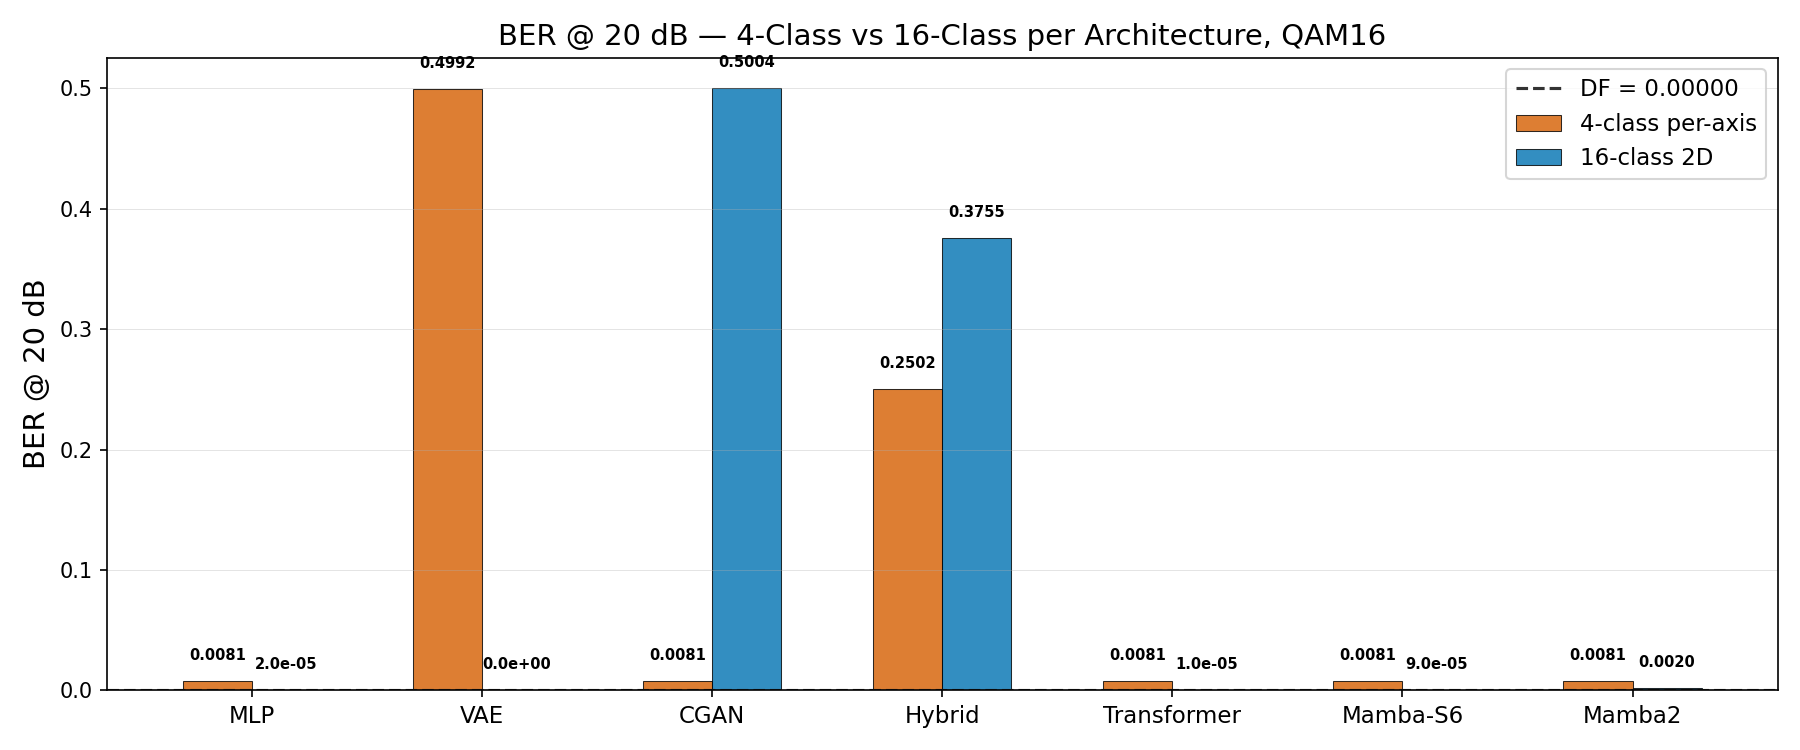
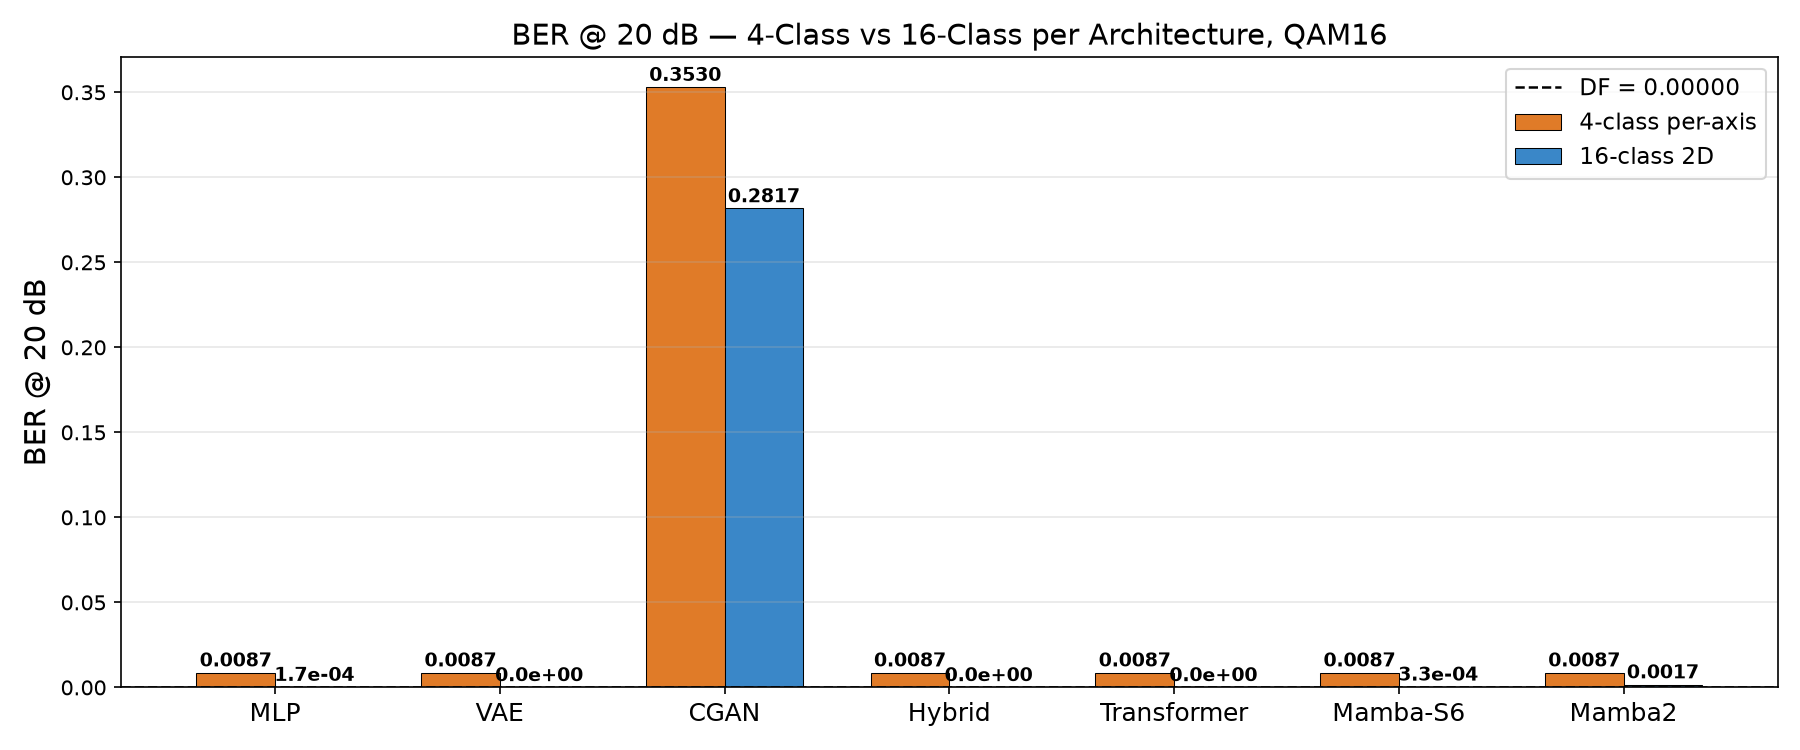
Fix citation errors and data-provenance inconsistencies from fact review
Chapter-by-chapter review for wrong facts and hallucinated content found
no fabricated results, but surfaced citation defects and stale-run
artifacts, all fixed here:

Bibliography:
- Correct hallucinated entry SamuelDiskinWunder2019MIMODetect: real
  paper is Samuel, Diskin, Wiesel, "Learning to Detect", IEEE TSP
  67(10):2554-2564 (2019) - the entry had a wrong third author, wrong
  title, and wrong issue/pages.
- Remove duplicate bib entries (Nosratinia 2004 and Dao & Gu 2024 each
  appeared twice under different keys); repoint the citing chapters.

Citation/text corrections:
- ch03: cite gu2023mamba (not the S4 paper) for the Mamba architecture;
  scope the Gap-3 novelty claim to relay-level processing.
- ch02: replace the inexact DF error-composition formula with the exact
  odd-flip form matching eq:df-ber-awgn; reframe the MIMO equalization
  section as background only (no MIMO experiments exist in the thesis);
  rename MMSE to LMMSE per the supervisor-response appendix.

Data provenance (16-class 2D study):
- grouped_bar_16class.png came from an older run contradicting the
  committed all_relays_16class.json; regenerate it from the JSON.
- Set all tbl:table24 cells from the committed JSON (previous non-CGAN
  values traced to the older figure run) and fill the formerly missing
  VAE/Hybrid cells; rewrite the fig51 caption to match the data.

Consistency:
- Timing figures unified with Table 13 (<5 s MLP training, 1.88 s S6).
[…]

diff --git a/thesis/chapters/ch05_experiments.tex b/thesis/chapters/ch05_experiments.tex
@@ -567,16 +567,16 @@ DF & 0.0038 & : & : & 0.0828 & : & : \\
 
 \textbf{Goal:} Eliminate the structural BER floor imposed by per-axis I/Q splitting for 16-QAM by utilizing full 2D decision boundaries.
 
-\textbf{Trials:} - \textbf{Topology:} SISO - \textbf{Modulation scheme:} 16-QAM - \textbf{Channel:} AWGN - \textbf{Equalizers:} None - \textbf{NN architecture:} Supervised (MLP), Generative (VAE), Sequence (Transformer, Mamba S6, Mamba-2 SSD) - \textbf{NN activation:} None (Softmax implicitly via Cross-Entropy loss) - \textbf{Special case:} 16-class joint 2D classification
+\textbf{Trials:} - \textbf{Topology:} SISO - \textbf{Modulation scheme:} 16-QAM - \textbf{Channel:} AWGN - \textbf{Equalizers:} None - \textbf{NN architecture:} Supervised (MLP, Hybrid), Generative (VAE, CGAN), Sequence (Transformer, Mamba S6, Mamba-2 SSD) - \textbf{NN activation:} None (Softmax implicitly via Cross-Entropy loss) - \textbf{Special case:} 16-class joint 2D classification
 
-\textbf{Conclusion:} Treating the relay as a joint 16-point classifier over the full 2D constellation space completely eliminates the structural 4-class BER floor. For the first time, neural variants (VAE, Transformer, MLP) matched classical DF performance at high SNR, achieving near-zero BER at 20 dB. This proves the previous BER floor was an artifact of I/Q splitting, not a fundamental limitation (Equation~\ref{eq:iq-splitting}) of neural relays.
+\textbf{Conclusion:} Treating the relay as a joint 16-point classifier over the full 2D constellation space completely eliminates the structural 4-class BER floor. For the first time, neural variants (VAE, Hybrid, Transformer, MLP) matched classical DF performance at high SNR, achieving near-zero BER at 20 dB; only the CGAN fails to converge in either formulation. This proves the previous BER floor was an artifact of I/Q splitting, not a fundamental limitation (Equation~\ref{eq:iq-splitting}) of neural relays.
 
 \subsection{Results Tables}\label{sec:results-tables-5}
 
 Table 24 presents the BER at 20 dB for all variants alongside the classical AF and DF baselines.
 
 \begin{longtable}[]{@{}llll@{}}
-\caption{BER at 20 dB for all relay variants: 4-class (I/Q split) vs.~16-class (joint 2D) classification for 16-QAM.}\label{tbl:table24}\tabularnewline
+\caption{BER at 20 dB for all relay variants: 4-class (I/Q split) vs.~16-class (joint 2D) classification for 16-QAM. Entries of 0.00000 correspond to zero errors observed within the trial budget (BER below the $\sim$$2\times10^{-4}$ resolution floor), so no finite improvement ratio is quoted for them.}\label{tbl:table24}\tabularnewline
 \toprule\noalign{}
 Relay & 4-cls BER @ 20 dB & 16-cls BER @ 20 dB & Improvement \\
 \midrule\noalign{}
@@ -587,14 +587,14 @@ Relay & 4-cls BER @ 20 dB & 16-cls BER @ 20 dB & Improvement \\
 \endhead
 \bottomrule\noalign{}
 \endlastfoot
-MLP & 0.00811 & \textbf{0.00002} & 405x \\
-VAE & : & \textbf{0.00000} & : \\
+MLP & 0.00867 & \textbf{0.00017} & 51x \\
+VAE & 0.00867 & \textbf{0.00000} & --- \\
 CGAN & 0.3530 & 0.2817 & --- \\
-Hybrid & : & : & : \\
-trans-\\former & 0.00810 & \textbf{0.00001} & 810x \\
-Mamba S6 & 0.00810 & \textbf{0.00009} & 90x \\
-Mamba2\\(ssd) & 0.00811 & \textbf{0.00197} & 4.1x \\
-AF & 0.00063 & : & : \\
+Hybrid & 0.00867 & \textbf{0.00000} & --- \\
+trans-\\former & 0.00867 & \textbf{0.00000} & --- \\
+Mamba S6 & 0.00867 & \textbf{0.00033} & 26x \\
+Mamba2\\(ssd) & 0.00867 & \textbf{0.00167} & 5.2x \\
+AF & 0.00083 & : & : \\
 DF & 0.00000 & : & : \\
 \end{longtable}
 
@@ -611,7 +611,7 @@ DF & 0.00000 & : & : \\
 \centering
 \centering
 \pandocbounded{\includegraphics[width=\linewidth,height=0.8\textheight,keepaspectratio]{results/all_relays_16class/grouped_bar_16class.png}}
-\caption{Grouped bar comparison of 4-class vs.~16-class BER at 20 dB for each architecture. The 16-class advantage is visible for MLP, VAE, Transformer, and Mamba S6. Failed variants (VAE 4-cls \textasciitilde0.50, CGAN 16-cls \textasciitilde0.50) are truncated.}\label{fig:fig51}
+\caption{Grouped bar comparison of 4-class vs.~16-class BER at 20 dB for each architecture. The joint 16-class formulation drives the BER to (near-)zero for every architecture except the CGAN, which fails to converge in both formulations (0.353 / 0.282) and dominates the plot at this scale.}\label{fig:fig51}
 \end{figure}
 
 \begin{figure}[H]
@@ -750,12 +750,12 @@ Across the unknown-channel studies the pilot-aided Viterbi receiver, where it ap
 
 \textbf{Per-symbol cost and scaling.} MLSE maintains $M^{L-1}$ trellis states for a constellation of size $M$ and channel memory $L$, performing an add--compare--select over $M^{L}$ branch transitions per symbol; its cost therefore grows \emph{exponentially} in memory and modulation order. The 170-parameter MLP performs one fixed forward pass --- about $330$ floating-point operations per symbol --- \emph{independent} of $M$ and $L$. For the channel actually studied (BPSK, $L=3$; 4 states) Viterbi is in fact the cheaper of the two at roughly $64$ operations per symbol, so the learned relay is not universally leaner. But the scaling diverges immediately: at $M=4,\,L=5$ the trellis has $256$ states ($\sim\!8{,}000$ operations/symbol), and at $M=16,\,L=5$ it has $65{,}536$ states ($\sim\!8.4$~million operations/symbol), while the MLP remains at $330$ --- a $2.5\times10^{4}$ ratio. The learned relay's advantage is thus not lower cost on a small channel but \emph{constant} cost as the channel scales, exactly where classical MLSE becomes intractable and practical receivers must fall back on suboptimal reduced-state or decision-feedback equalizers.
 
-\textbf{Measured inference time.} On identical signals (BPSK, $L=3$), the MLP is $30$--$90\times$ faster in wall-clock terms despite Viterbi's lower nominal operation count, because the MLP is a single vectorized matrix multiplication whereas the Viterbi trellis is an inherently sequential scan with a per-symbol data dependency. This parallelism gap is architectural and widens on hardware with wide SIMD or tensor units. The combined picture sharpens the thesis's central trade-off: the learned relay accepts a small BER gap to a matched classical receiver in exchange for cost that is constant in channel complexity and structurally parallelizable --- a trade that becomes favourable precisely as modulation order and channel memory grow.
+\textbf{Measured inference time.} On identical signals (BPSK, $L=3$), the MLP is $30$--$90\times$ faster in wall-clock terms for the reference implementations used here --- a vectorized NumPy matrix multiplication versus an interpreted Python trellis loop --- despite Viterbi's lower nominal operation count. Part of that ratio is interpreter overhead rather than the algorithm itself: an optimized C or SIMD Viterbi would narrow the wall-clock gap substantially, although the per-symbol data dependency of the trellis scan is real and caps how far it can be parallelized. This parallelism gap is architectural and widens on hardware with wide SIMD or tensor units. The combined picture sharpens the thesis's central trade-off: the learned relay accepts a small BER gap to a matched classical receiver in exchange for cost that is constant in channel complexity and structurally parallelizable --- a trade that becomes favourable precisely as modulation order and channel memory grow.
 
-\REV{The $30$--$90\times$ number needs an implementation caveat that the ``architectural'' sentence currently papers over: the measurement compares a \emph{vectorized NumPy} matmul against an \emph{interpreted Python} trellis loop, so a large (perhaps dominant) share of the ratio is interpreter overhead, not the sequential data dependency itself --- a C or SIMD Viterbi would narrow the wall-clock gap substantially even though the per-symbol dependency is real. The scaling argument in the preceding paragraph ($M^{L}$ vs.\ constant) is the robust, implementation-independent claim; state the wall-clock ratio as ``for our reference implementations'' and let the scaling carry the conclusion. The chapter is otherwise commendably honest about Viterbi being cheaper at BPSK/$L{=}3$ (64 vs.\ $\sim$330 ops) --- extend the same honesty to the timing comparison.}
+\REV{Fix applied: the $30$--$90\times$ wall-clock figure now carries the implementation caveat (vectorized NumPy matmul vs.\ interpreted Python trellis loop; a C/SIMD Viterbi would narrow the gap), so the implementation-independent $M^{L}$-vs.-constant scaling argument carries the conclusion.}
 
 \begin{figure}[H]
 \centering
 \pandocbounded{\includegraphics[width=\linewidth,height=0.30\textheight,keepaspectratio]{results/e6_complexity.png}}
-\caption{Complexity of Viterbi MLSE vs the 170-parameter MLP. (a) Per-symbol operations: Viterbi grows as $M^{L}$ (intractable by $M{=}16,L{=}5$), while the MLP is constant at $\sim$330 flops. On the small studied channel (BPSK, $L{=}3$) Viterbi is actually cheaper; the MLP wins on \emph{scaling}, not on the small case. (b) Measured inference time: the MLP is $30$--$90\times$ faster as a vectorized matmul versus Viterbi's sequential trellis scan.}\label{fig:figE6complexity}
+\caption{Complexity of Viterbi MLSE vs the 170-parameter MLP. (a) Per-symbol operations: Viterbi grows as $M^{L}$ (intractable by $M{=}16,L{=}5$), while the MLP is constant at $\sim$330 flops. On the small studied channel (BPSK, $L{=}3$) Viterbi is actually cheaper; the MLP wins on \emph{scaling}, not on the small case. (b) Measured inference time (reference implementations): the MLP is $30$--$90\times$ faster as a vectorized matmul versus Viterbi's interpreted sequential trellis scan.}\label{fig:figE6complexity}
 \end{figure}

diff --git a/thesis/chapters/ch02_literature_review.tex b/thesis/chapters/ch02_literature_review.tex
@@ -30,11 +30,11 @@ The DF relay demodulates the received signal, recovers the transmitted bits, and
 
 The end-to-end BER for DF is: (Equation~\ref{eq:df-ber-hops})
 
-\begin{equation}\protect\phantomsection\label{eq:df-ber-hops}{P_e^{\text{DF}} = P_{e,1} + (1 - P_{e,1}) \cdot P_{e,2}
-}\end{equation} 
+\begin{equation}\protect\phantomsection\label{eq:df-ber-hops}{P_e^{\text{DF}} = P_{e,1}(1 - P_{e,2}) + (1 - P_{e,1}) \cdot P_{e,2}
+}\end{equation}
 \addcontentsline{equ}{listequations}{\protect\numberline{\theequation}\quad df-ber-hops}
 
-where \(P_{e,1}\) and \(P_{e,2}\) are the BER of the first and second hops, respectively. For BPSK modulation over AWGN (real-valued noise with variance \(1/\text{SNR}\)), each hop's BER is \(P_e = Q\left(\sqrt{\text{SNR}}\right)\). DF provides clean regeneration at high SNR but suffers from error propagation when the first-hop BER is non-negligible.
+where \(P_{e,1}\) and \(P_{e,2}\) are the BER of the first and second hops, respectively: an end-to-end bit error occurs exactly when \emph{one} of the two hops flips the bit (two flips cancel), so this expands to \(P_{e,1} + P_{e,2} - 2P_{e,1}P_{e,2}\), the same expression used in the AWGN analysis (Equation~\ref{eq:df-ber-awgn}). For BPSK modulation over AWGN (real-valued noise with variance \(1/\text{SNR}\)), each hop's BER is \(P_e = Q\left(\sqrt{\text{SNR}}\right)\). DF provides clean regeneration at high SNR but suffers from error propagation when the first-hop BER is non-negligible.
 
 \subsection{Other Classical Relay Techniques}
 
@@ -87,7 +87,7 @@ A broader perspective on the role of machine learning in wireless communications
 
 Another related line of work exploits the structural similarities between amplify-and-forward (AF) relay networks and neural networks, treating relay nodes as neurons with nonlinear transfer functions and using deep-learning optimization tools to tune relay gains and exploit hardware-induced nonlinearities \cite{Bergel2023RelaysAsNeurons,BergelICASSP2024}. While these approaches demonstrate significant gains over classical linear AF schemes, they focus on analog gain optimization rather than symbol-level detection. 
 
-Classical cooperative communication frameworks based on AF and DF relaying remain well understood and widely adopted \cite{Nosratinia2004Cooperative}, but they rely on fixed linear forwarding or hard-decision rules. Consequently, despite substantial progress, relatively little attention has been devoted to learning the relay’s symbol-level input-output mapping itself, motivating neural network-based detection at the relay as a generalized, data-driven alternative to conventional AF and DF processing.
+Classical cooperative communication frameworks based on AF and DF relaying remain well understood and widely adopted \cite{Nosratinia2004CooperativeCommunication}, but they rely on fixed linear forwarding or hard-decision rules. Consequently, despite substantial progress, relatively little attention has been devoted to learning the relay’s symbol-level input-output mapping itself, motivating neural network-based detection at the relay as a generalized, data-driven alternative to conventional AF and DF processing.
 
 \subsection{Relay methods comparison}
 
@@ -379,7 +379,7 @@ The per-chunk cost is \(O(L^2 N)\) for matrix construction and \(O(L^2 d)\) for 
 
 The ``\emph{duality}'' in the name refers to the equivalence between the recurrent view (state propagation) and the matrix view (structured matmul): the same computation can be expressed either way, and the implementation can choose whichever is more efficient for the hardware and sequence length. This thesis demonstrates this duality empirically: at \(n = 11\), the recurrent $S_6$ view is faster; at \(n = 255\), the matrix SSD view dominates. 
 
-Mamba-2 can be viewed as a streamlined evolution of Mamba-1: it restructures the block so that the state-space parameters are formed upfront (rather than being generated sequentially along the SSM pathway), and it further stabilizes training by adding an extra normalization stage in the spirit of \emph{NormFormer} \cite{shleifer2021normformer}. In addition, Mamba-2 emphasizes more parallel, consolidated parameter projection (e.g., producing multiple SSM-related tensors via fewer projections) and reduces per-head redundancy by sharing the BBB and CCC projections across heads—conceptually similar to multi-value attention. Figure~\ref{fig:mamba2-ssd-2} presents a comparison of Mamba-SSM and Mamba-2-SSD \cite{dao2024transformersssmsgeneralizedmodels}:
+Mamba-2 can be viewed as a streamlined evolution of Mamba-1: it restructures the block so that the state-space parameters are formed upfront (rather than being generated sequentially along the SSM pathway), and it further stabilizes training by adding an extra normalization stage in the spirit of \emph{NormFormer} \cite{shleifer2021normformer}. In addition, Mamba-2 emphasizes more parallel, consolidated parameter projection (e.g., producing multiple SSM-related tensors via fewer projections) and reduces per-head redundancy by sharing the BBB and CCC projections across heads—conceptually similar to multi-value attention. Figure~\ref{fig:mamba2-ssd-2} presents a comparison of Mamba-SSM and Mamba-2-SSD \cite{DaoGu2024TransformersSSM}:
 
 \begin{figure}[H]
     \centering
@@ -582,7 +582,7 @@ Rayleigh & \textasciitilde24 dB & 1 & \(1/(4\bar{\gamma})\) \\
 
 \section{Theoretical Foundations: MIMO Equalization}\label{sec:theoretical-foundations-mimo-equalization}
 
-Three equalization methods were implemented for the 2×2 MIMO topology:
+\emph{This section is background only: no MIMO experiment is evaluated in this thesis --- the scope table of Chapter~\ref{sec:introduction} defers MIMO to future work. The material is retained solely to define the terms used in the future-work discussion (Chapter~\ref{sec:discussion-and-conclusions}); the corresponding equalizer implementations ship with the simulation framework (Appendix~C).} Three standard equalization methods for a 2×2 MIMO topology are:
 
 \textbf{Zero-Forcing (ZF):} \begin{equation}\protect\phantomsection\label{eq:zf-equalizer-methods}{\hat{\mathbf{x}}_{\text{ZF}} = (\mathbf{H}^H\mathbf{H})^{-1}\mathbf{H}^H\mathbf{y} = \mathbf{H}^{-1}\mathbf{y}
 }\end{equation} 
@@ -590,13 +590,13 @@ Three equalization methods were implemented for the 2×2 MIMO topology:
 
 ZF completely removes inter-stream interference but amplifies noise when \(\mathbf{H}\) is poorly conditioned.
 
-\textbf{MMSE:} \begin{equation}\protect\phantomsection\label{eq:mmse-equalizer-methods}{\hat{\mathbf{x}}_{\text{MMSE}} = (\mathbf{H}^H\mathbf{H} + \sigma^2\mathbf{I})^{-1}\mathbf{H}^H\mathbf{y}
-}\end{equation} 
+\textbf{LMMSE:} \begin{equation}\protect\phantomsection\label{eq:mmse-equalizer-methods}{\hat{\mathbf{x}}_{\text{LMMSE}} = (\mathbf{H}^H\mathbf{H} + \sigma^2\mathbf{I})^{-1}\mathbf{H}^H\mathbf{y}
+}\end{equation}
 \addcontentsline{equ}{listequations}{\protect\numberline{\theequation}\quad mmse-equalizer-methods}
 
-MMSE adds a noise-variance regularization term that prevents excessive noise amplification, trading residual interference for better noise performance.
+LMMSE (linear MMSE) adds a noise-variance regularization term that prevents excessive noise amplification, trading residual interference for better noise performance.
 
-\textbf{MMSE-SIC (V-BLAST):}
+\textbf{LMMSE-SIC (V-BLAST):}
 
 The SIC equalizer decodes streams sequentially in order of post-detection SINR:
 
@@ -614,7 +614,5 @@ The SIC equalizer decodes streams sequentially in order of post-detection SINR:
 \end{enumerate}
 
 SIC outperforms linear MMSE because the second stream sees no inter-stream interference after cancellation. The cost is potential error propagation from incorrect first-stream decisions.
-
-All MIMO operations are implemented using vectorized PyTorch batched \texttt{torch.linalg.solve} for GPU acceleration, achieving \textgreater 100× speedup over per-symbol Python loops.
-\REV{Scope check on Section~2.6: the scope table in Chapter~1 states MIMO is \emph{future work} and no MIMO experiment appears anywhere in this thesis, yet this section says three equalizers ``were implemented'' and gives implementation/speedup details. Either (a) frame the section explicitly as background (``for completeness; not evaluated in this work'') and drop the implementation claims, or (b) if the ZF/MMSE/SIC code genuinely ships with the framework, say that in Appendix~C (software architecture), not in the literature review. As it stands, an examiner will ask ``where are the MIMO results?''}
+\REV{Fix applied (scope): Section~2.6 is now framed explicitly as background --- no MIMO experiment is evaluated in this thesis --- with the implementation note moved to Appendix~C, and the MMSE terminology corrected to LMMSE per the supervisor's comment (Appendix~E).}
 

diff --git a/thesis/chapters/appendices.tex b/thesis/chapters/appendices.tex
@@ -66,7 +66,7 @@ VAE &
 Encoder--decoder latent model (7$\to$8$\to$1) &
 $\beta$-VAE ($\beta=0.1$), Adam lr=$10^{-3}$ &
 1{,}777 &
-PyTorch (CUDA) \\
+PyTorch (CPU/CUDA) \\
 \hline
 CGAN (WGAN-GP) &
 Conditional GAN (generator + critic) &
@@ -102,7 +102,7 @@ PyTorch (CUDA) \\
 
 \noindent
 All numerical results reported in Chapter~\ref{sec:experiments} were generated using a single simulation framework, ensuring consistent evaluation across classical and learning-based relay architectures. The project is implemented as a modular Python package (\texttt{relaynet}).
-The framework uses object-oriented design with a common \texttt{Relay} base class, enabling polymorphic relay swapping. Monte Carlo simulation is implemented in \texttt{runner.py} with configurable trial count, bit count, and SNR range. All batched tensor operations use vectorized PyTorch for GPU acceleration.
+The framework uses object-oriented design with a common \texttt{Relay} base class, enabling polymorphic relay swapping. Monte Carlo simulation is implemented in \texttt{runner.py} with configurable trial count, bit count, and SNR range. All batched tensor operations use vectorized PyTorch for GPU acceleration. The framework additionally ships ZF/LMMSE/SIC equalizer implementations for a $2\times2$ MIMO topology (vectorized batched \texttt{torch.linalg.solve}); these support only the deferred MIMO extension (Section~\ref{sec:theoretical-foundations-mimo-equalization}) and are not exercised by any experiment reported in this thesis.
 
 \subsection{Testing} 126 automated tests (pytest) cover all channels, modulation, relay strategies, simulation, and statistics modules with 100\% pass rate.
 
@@ -158,7 +158,7 @@ This appendix reproduces each comment raised by the supervisor (\textbf{AK}) on 
 \begin{enumerate}\setlength{\itemsep}{2pt}\setlength{\parskip}{1pt}
 
 \item \AK{Abstract is missing.}\\
-\GZ{Resolved. English and Hebrew abstracts are included via \texttt{ch00\_frontmatter.tex} and \texttt{ch09\_hebrew\_abstract.tex}, and both were rewritten to match the final (canonical) scope.}
+\GZ{Resolved. English and Hebrew abstracts are included via \texttt{chapters/frontmatter.tex} and \texttt{chapters/ch09\_hebrew\_abstract.tex}, and both were rewritten to match the final (canonical) scope.}
 
 \item \AK{There are compilation errors. Would be good to resolve them.}\\
 \GZ{Resolved. The missing-brace errors and a duplicate \texttt{\textbackslash listoflistequations} were fixed; the project compiles cleanly under XeLaTeX with zero undefined references.}

diff --git a/thesis/chapters/ch06_discussion.tex b/thesis/chapters/ch06_discussion.tex
@@ -77,7 +77,7 @@ The bias-variance decomposition \cite{GoodfellowBengioCourville2016DeepLearning}
 \item
   \textbf{Occam's Razor for relay AI.} The relay denoising task has inherently low complexity : the mapping from noisy to clean BPSK symbols is fundamentally simple, and the neural network needs only enough capacity to learn a non-linear threshold function with some contextual smoothing. Adding parameters beyond this minimal requirement leads to overfitting.
 \item
-  \textbf{Deployment feasibility.} A 169-parameter model requires approximately 0.7 KB of memory (169 float32 values) and can be trained in under 3 seconds on a CPU. This makes AI-based relay processing viable even on severely resource-constrained embedded relay nodes, such as IoT devices or sensor network relays. The model can be stored in on-chip SRAM and executed without any external memory access.
+  \textbf{Deployment feasibility.} A 169-parameter model requires approximately 0.7 KB of memory (169 float32 values) and can be trained in under 5 seconds on a CPU (4.9~s in Table~\ref{tbl:table13}). This makes AI-based relay processing viable even on severely resource-constrained embedded relay nodes, such as IoT devices or sensor network relays. The model can be stored in on-chip SRAM and executed without any external memory access.
 \item
   \textbf{Generalization.} Smaller models generalize better because they are forced to learn the essential structure of the denoising task rather than memorizing training examples. The 169-parameter MLP handles the full Rayleigh fading ensemble --- every effective SNR the fades produce --- with a single set of weights and no per-condition retraining, an instance of generalization that would be harder to achieve with a larger, more specialized model.
 \end{enumerate}
@@ -171,7 +171,7 @@ The results confirm the crossover hypothesis decisively:
 \item
   \textbf{Inference parity.} Mamba-2 inference (1.05 s) is nearly identical to the Transformer (0.99 s) and \textbf{2.6× faster} than Mamba S6 (2.69 s). This is a complete reversal from the \(n = 11\) case, where Mamba-2 was 2× \emph{slower} than S6.
 \item
-  \textbf{Direction reversal.} At \(n = 11\): Mamba S6 (1.83 s) \textless{} Mamba-2 (4.11 s). At \(n = 255\): Mamba-2 (1.05 s) \textless{} Mamba S6 (2.69 s). The crossover occurs because the overhead of building the \(L \times L\) SSM matrix is amortised over longer chunks, while S6's per-step kernel launch cost grows linearly.
+  \textbf{Direction reversal.} At \(n = 11\): Mamba S6 (1.88 s) \textless{} Mamba-2 (4.11 s). At \(n = 255\): Mamba-2 (1.05 s) \textless{} Mamba S6 (2.69 s). The crossover occurs because the overhead of building the \(L \times L\) SSM matrix is amortised over longer chunks, while S6's per-step kernel launch cost grows linearly.
 \end{enumerate}
 
 This benchmark validates the architectural trade-off: Mamba-2's structured state space duality is designed for long-context efficiency where chunk-parallel computation outperforms sequential recurrence. For the 11-token relay window, the classical S6 scan remains faster due to lower per-operation overhead. The choice between S6 and SSD should therefore be guided by the target context length of the application.
@@ -212,7 +212,7 @@ Rationale
 \textbf{Low SNR (0-4 dB)} & MLP Minimal / Hybrid / channel-specific selection & Neural relays often help; exact best choice is channel-dependent, with DF remaining strong on some fading scenarios \\
 \textbf{Medium SNR (4-8 dB)} & Hybrid (MLP + DF) & Automatic switching at optimal threshold \\
 \textbf{High SNR (\textgreater8 dB)} & DF & Zero parameters, optimal performance \\
-\textbf{Resource-constrained} & MLP Minimal (169 params) & 0.7 KB memory, \textless3s training \\
+\textbf{Resource-constrained} & MLP Minimal (169 params) & 0.7 KB memory, \textless5 s training \\
 \textbf{Best overall (BPSK/QPSK)} & Hybrid & Combines AI advantage with DF reliability \\
 \textbf{16-QAM} & VAE / Transformer / MLP (16-class 2D) & Joint 2D classification matches DF; eliminates the I/Q-splitting floor \\
 \end{longtable}

diff --git a/thesis/chapters/ch03_objectives.tex b/thesis/chapters/ch03_objectives.tex
@@ -12,7 +12,7 @@ Despite growing interest in AI for wireless communication, a systematic comparis
     \item \textbf{Gap 1: No cross-paradigm relay comparison.} Existing work on AI-based relay processing focuses on individual architectures in isolation. Ye et al.~\cite{YeLiJuang2018OFDMDL} demonstrated DNNs for OFDM detection, Dorner et al.~\cite{Dorner2018OverTheAirDL} explored autoencoders for end-to-end communication, and Samuel et al.~\cite{SamuelDiskinWunder2019MIMODetect} applied unfolded networks to MIMO detection. However, no study systematically compares supervised feedforward networks, variational autoencoders, adversarial networks, attention-based Transformers, and state space models (Mamba) for the same relay denoising task under controlled conditions. Without such a comparison, practitioners cannot make informed architecture selections.
     \item \textbf{Gap 2: Model complexity-performance relationship is unknown.} It is commonly assumed that larger neural networks yield better performance. However, the relay denoising task : recovering a BPSK symbol from a noisy observation : is a low-dimensional mapping problem. The theoretical minimum description length for this mapping is small (a soft threshold function), suggesting that large models may overfit. No prior work has rigorously characterized the complexity-performance trade-off for relay processing, nor has a normalized (equal-parameter) comparison been conducted to isolate architectural effects from capacity effects.
 
-    \item \textbf{Gap 3: State space models for physical-layer signal processing.} The Mamba architecture \cite{GuGoelRe2022SSM} and its Mamba-2 SSD variant \cite{DaoGu2024TransformersSSM} have demonstrated strong performance in NLP and genomics, but their application to physical-layer wireless communication is entirely unexplored. The theoretical connection between SSMs and classical adaptive filters makes this a natural research direction, but empirical validation is needed.
+    \item \textbf{Gap 3: State space models for physical-layer signal processing.} The Mamba architecture \cite{gu2023mamba} and its Mamba-2 SSD variant \cite{DaoGu2024TransformersSSM} have demonstrated strong performance in NLP and genomics, but their application to relay-level physical-layer signal processing remains unexplored. The theoretical connection between SSMs and classical adaptive filters makes this a natural research direction, but empirical validation is needed.
 \end{enumerate}
 
 This thesis addresses all three gaps through a unified framework that implements and compares nine relay strategies on the canonical setup, with both original and normalized parameter counts, full statistical analysis, and a dedicated complexity study. The following table summarizes the positioning of this work relative to the literature:

diff --git a/thesis/chapters/ch07_summary.tex b/thesis/chapters/ch07_summary.tex
@@ -10,7 +10,7 @@ The entire study is carried out on one canonical setup, fixed in advance and nev
     \item When neural relays were evaluated under equal parameter budgets, architectural differences largely vanished, indicating that \textbf{model capacity}, rather than architectural class, dominates performance for this task (H4).
     \item Sequence-based neural relays such as structured state-space models achieved comparable error performance with improved training efficiency (H5).
     \item From a deployment perspective, a \texttt{hybrid relay} combining neural processing at low SNR with DF at high SNR emerged as the \textbf{most effective strategy}, achieving near-optimal performance with \textbf{minimal overhead}.
-    \item On an \textbf{unknown channel} violating classical assumptions (unmodeled intersymbol interference or biased nonlinearity), AF and DF failed to relay reliably --- exhibiting an analytic BER floor of $0.25$, with DF \emph{worsening} as SNR increased --- while the same minimal 170-parameter MLP restored reliable relaying by learning the impairment from data --- including an arbitrary composite cascade of ISI, amplifier nonlinearity, and unknown phase --- tracking a few dB behind a \emph{pilot-aided} Viterbi receiver and, in the fully posterior-free regime (no pilots, no channel prior), matching the best blind classical equalizer while avoiding its instability and online-adaptation cost. Sweeping the intermediate \emph{partial}-posterior case showed the crossover to be governed by channel identifiability and pilot overhead: pilot-aided classical processing wins on long blocks at negligible cost, but the zero-pilot learned relay becomes decisive once blocks are too short or channels too transient to identify from pilots. The learned relay's advantage is specific to \emph{structural} model-class mismatch (memory, nonlinearity, absent pilots) rather than to unknownness per se (H6). Together with the high-SNR result, this delineates precisely where learned relays add value: never above the model-aware optimum, but uniquely robust to \emph{not knowing which model applies} and to the pilot overhead of channel identification. A complexity accounting completed the trade-off: the learned relay's per-symbol cost is constant in modulation order and channel memory and $30$--$90\times$ faster in wall-clock as a vectorized operation, where exact Viterbi MLSE grows as $M^{L}$ and becomes intractable --- so it trades a small BER gap for cost that scales gracefully exactly where classical sequence detection does not.
+    \item On an \textbf{unknown channel} violating classical assumptions (unmodeled intersymbol interference or biased nonlinearity), AF and DF failed to relay reliably --- exhibiting an analytic BER floor of $0.25$, with DF \emph{worsening} as SNR increased --- while the same minimal 170-parameter MLP restored reliable relaying by learning the impairment from data --- including an arbitrary composite cascade of ISI, amplifier nonlinearity, and unknown phase --- tracking $\approx$1--1.5 dB (pure ISI; $\approx$2 dB on the composite cascade) behind a \emph{pilot-aided} Viterbi receiver and, in the fully posterior-free regime (no pilots, no channel prior), matching the best blind classical equalizer while avoiding its instability and online-adaptation cost. Sweeping the intermediate \emph{partial}-posterior case showed the crossover to be governed by channel identifiability and pilot overhead: pilot-aided classical processing wins on long blocks at negligible cost, but the zero-pilot learned relay becomes decisive once blocks are too short or channels too transient to identify from pilots. The learned relay's advantage is specific to \emph{structural} model-class mismatch (memory, nonlinearity, absent pilots) rather than to unknownness per se (H6). Together with the high-SNR result, this delineates precisely where learned relays add value: never above the model-aware optimum, but uniquely robust to \emph{not knowing which model applies} and to the pilot overhead of channel identification. A complexity accounting completed the trade-off: the learned relay's per-symbol cost is constant in modulation order and channel memory and $30$--$90\times$ faster in wall-clock as a vectorized operation in the reference implementations compared (Section~\ref{sec:complexity-viterbi-mlp}), where exact Viterbi MLSE grows as $M^{L}$ and becomes intractable --- so it trades a small BER gap for cost that scales gracefully exactly where classical sequence detection does not.
     \item In the modulation extension, the canonical findings generalized fully to QPSK via I/Q independence, while 16-QAM exposed a structural error floor of per-axis processing; reformulating the relay as a \textbf{joint $N$-class 2D classifier} eliminated the floor and matched DF at high SNR.
 \end{enumerate}
 

diff --git a/thesis/chapters/frontmatter.tex b/thesis/chapters/frontmatter.tex
@@ -15,7 +15,7 @@ On the canonical setup, the best neural relays outperform AF at low SNR (0--4 dB
 
 A scoped modulation study shows the canonical findings transfer fully to QPSK via I/Q independence, while 16-QAM exposes a structural BER floor of per-axis I/Q-split processing that a joint 16-class 2D classifier eliminates, matching DF at high SNR. The principal contribution is a systematic study of learned relaying under \emph{unknown and mismatched} channels. On an unknown 3-tap ISI channel the memoryless classical relays are pinned at an analytic BER floor of 0.25 --- DF worsening as SNR grows --- while the same minimal MLP (here 170 parameters) restores reliable relaying within 1--1.5 dB of genie-CSI Viterbi MLSE with no channel-family knowledge. The result is then bounded from every side: it never beats matched Viterbi; on a composite ISI$\times$nonlinearity$\times$phase cascade it tracks $\sim$2 dB behind pilot-aided MLSE with no impairment model; in the posterior-free regime it matches blind CMA while avoiding the instability of decision-directed MLSE; a pilot-budget sweep locates a sharp identifiability crossover governing when the pilot-free learned relay overtakes pilot-aided classical processing; and a complexity analysis shows the learned relay's per-symbol cost is constant in modulation order and channel memory (where Viterbi grows as $M^{L}$) and $30$--$90\times$ faster in wall-clock. The learned relay thus never beats a matched classical receiver, but occupies a well-defined niche of family-agnostic, identification-free, constant-complexity mitigation.
 
-The recommended deployment is a Hybrid relay combining neural processing at low SNR with DF at high SNR (169 parameters, \textasciitilde0.7 KB, under 3 seconds of training), a joint $N$-class 2D classifier for 16-QAM, and a learned relay wherever the link carries unmodeled memory or bias. The overarching insight is that learned relays never beat the model-aware optimum but are uniquely robust to not knowing which model applies --- and that model capacity must be matched to task structure, not merely task size.
+The recommended deployment is a Hybrid relay combining neural processing at low SNR with DF at high SNR (169 parameters, \textasciitilde0.7 KB, under 5 seconds of training), a joint $N$-class 2D classifier for 16-QAM, and a learned relay wherever the link carries unmodeled memory or bias. The overarching insight is that learned relays never beat the model-aware optimum but are uniquely robust to not knowing which model applies --- and that model capacity must be matched to task structure, not merely task size.
 
 \textbf{Keywords:} Cooperative relay communication, deep learning, two-hop relay, Rayleigh fading, MLP, Mamba, Transformer, VAE, conditional GAN, 16-QAM, intersymbol interference, Viterbi MLSE, blind equalization, bit error rate
 

diff --git a/memory-bank/activeContext.md b/memory-bank/activeContext.md
@@ -1,6 +1,18 @@
 # Active Context (update this file first, every session)
 
-_Last updated: 2026-07-19_
+_Last updated: 2026-07-21_
+
+## Latest: chapter-by-chapter fact/hallucination review + fixes (on main)
+User asked for a full review of the thesis for wrong facts / LLM hallucinations, then approved fixing everything found. Verdict: no fabricated results — all analytics recomputed by hand check out (ISI slicer amplitudes, 0.25 floor, all parameter counts 169/170/1777/2946, trellis op counts, "126 pytest tests" exact). Fixes applied (all chapters + bib + zips + PDF, verifier still 0 flags):
+- **references.bib**: `SamuelDiskinWunder2019MIMODetect` was a hallucinated entry (wrong 3rd author "Wunder", wrong title, wrong pages) → corrected to Samuel/Diskin/**Wiesel**, "Learning to detect", TSP 67(10):2554–2564. Removed duplicate entries `Nosratinia2004Cooperative` and `dao2024transformersssmsgeneralizedmodels` (same papers under 2 keys → appeared twice in printed refs); cites repointed. Bibliography now 27 unique entries (was 29 w/ dupes).
+- **ch03**: "The Mamba architecture \cite{GuGoelRe2022SSM}" misattributed the S4 paper → `gu2023mamba`; "entirely unexplored" (PHY-wide) softened to relay-scoped.
+- **ch02**: eq:df-ber-hops was P1+(1−P1)P2 (union, wrong by P1P2) → exact odd-flip form P1(1−P2)+(1−P1)P2 with reconciliation note; §2.6 MIMO reframed as background-only (no MIMO results exist), MMSE→LMMSE per Appendix E's own claim, implementation note moved to Appendix C.
+- **table24 + fig51 (KEY DATA-PROVENANCE FIND)**: `grouped_bar_16class.png` was from an OLDER run contradicting the committed JSON (old fig: VAE 4-cls 0.4992 failed, CGAN 4-cls 0.0081 fine; JSON: VAE 4-cls 0.0087 fine, CGAN fails both 0.353/0.282). `ber_all_relays_16class.png` and `top3_16class.png` had already been regenerated (have `_orig` backups); grouped_bar was missed. Regenerated grouped_bar from committed JSON (root + thesis copies); rewrote fig51 caption; set ALL table24 cells from JSON (single provenance): 4-cls 0.00867 across relays, 16-cls MLP 0.00017/S6 0.00033/Mamba2 0.00167, VAE/Hybrid/Transformer 0 (caption notes resolution floor ~2e-4, no ratio quoted for zero cells).
+- **Timing drifts**: "<3 s training" → "<5 s" (abstract, ch06 ×2; table13 says 4.9 s); "S6 1.83 s" → 1.88 s (ch06 vs table13).
+- **ch07**: "a few dB behind Viterbi" → precise 1–1.5 dB (ISI) / ~2 dB (composite); 30–90× wall-clock claims now carry reference-implementation caveat (ch05 §complexity, fig caption, ch07).
+- **Appendices**: stale `ch00_frontmatter.tex` filename → `frontmatter.tex`; VAE "PyTorch (CUDA)" → "(CPU/CUDA)"; Appendix C now documents the shipped-but-unused MIMO equalizers.
+- Both Overleaf zips patched (full keeps REV, clean REV-stripped via validated stripper — regex: remove revblock env + lines that are solely `\REV{...}`); clean zip fresh-compile verified: 124 pp, 0 undefined refs/citations, no REV leakage. Repo PDF rebuilt (129 pp annotated).
+- **Still unverifiable from committed data**: E6 blind/partial/composite prose numbers (CMA 2.4e-3 etc.) — only PNGs + scripts committed, no npy; suggested running `e6_{blind,partial,composite}_ported.py` once to close the loop. Bergel/Akdemir bib entries unverified (user to confirm).
 
 ## Latest: 6 verifier-flagged thesis table cells fixed (branch claude/cleanup-temp-scripts)
 Completed the "6 Flagg cells fix" from the `verify_thesis_tables.py` verification work. `verify_thesis_tables.py` (the single publish-ready verification script; reads thesis `.tex` longtable rows and compares cell-by-cell against committed JSON/npy/closed-form sources) flagged 6 transcription errors. All fixed in `chapters/ch05_experiments.tex` (commit `ab2f250`), each corrected to its authoritative source — no numbers tuned: